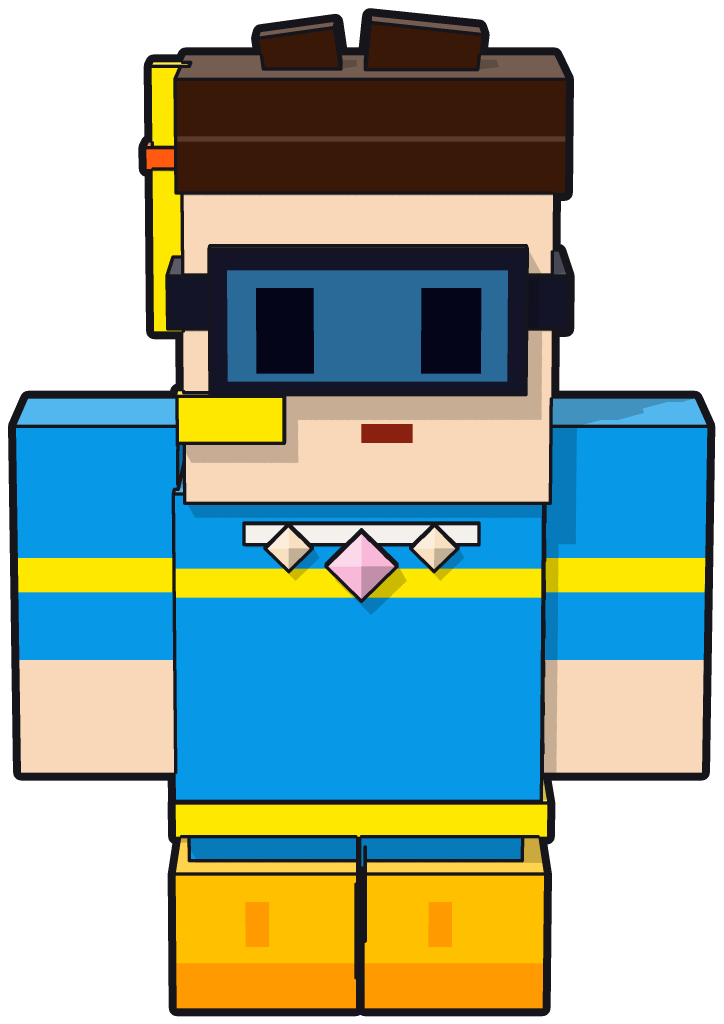
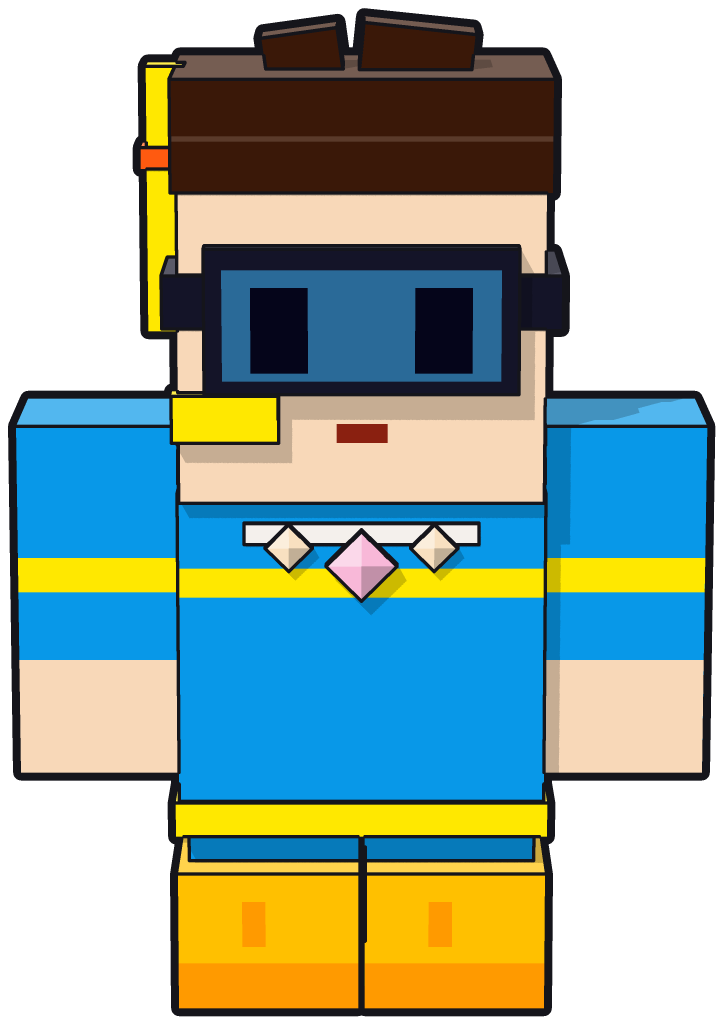
Make Bronze Digger, miner mouse, Flint Sparker and snorkel kid symmetric
These four were traced straight from screenshot pixels, so the left and
right halves came out uneven: arms of different widths, the face off the
body's centre line, eyes and boots at different offsets. Each is now built
around one centre line with mirrored arms, legs, eyes and side details,
keeping the traced heights and colours.

Claude-Session: https://claude.ai/code/session_01ULLBN6QcHc2q67qZSwLzzW

diff --git a/art3d_noweapon/src/c3dn_bronze_digger.py b/art3d_noweapon/src/c3dn_bronze_digger.py
@@ -3,45 +3,50 @@ from lib3d import *
 
 ZOOM = 3
 s = Scene()
-M = lambda x: 1020 - x
+M = lambda x: 1020 - x          # symmetric around the face centre (x = 510)
 BOTH = (lambda x: x, M)
 BRONZE, SKIN = '#C85E14', '#F8C084'
 
-# red crest on a bronze stem
-s.box(465, 180, 547, 265, -30, 30, '#D87A10').f(R(465, 180, 490, 265), '#D8A070')
-s.box(468, 138, 545, 190, -34, 34, '#FF1818').f(R(468, 138, 495, 190), '#FF5050')
 
-# skirt tabs, lower band, boots
-for x0, x1 in ((340, 485), (495, 645)):
-    s.box(x0, 985, x1, 1040, -72, 92, '#A84A14')
-s.box(333, 962, 657, 990, -96, 96, '#7A2A08')
-sk = s.box(335, 865, 655, 965, -94, 94, '#6A3020')
-for x0, x1 in ((340, 400), (470, 525), (590, 650)):
-    sk.f(R(x0, 865, x1, 965), '#E06A10')
+def mbox(x0, y0, x1, y1, z0, z1, col):
+    """Box plus its mirror image on the other side."""
+    return [s.box(min(f(x0), f(x1)), y0, max(f(x0), f(x1)), y1, z0, z1, col) for f in BOTH]
+
+# red crest on a bronze stem
+s.box(470, 180, 550, 265, -30, 30, '#D87A10').f(R(470, 180, 495, 265), '#D8A070')
+s.box(472, 138, 548, 190, -34, 34, '#FF1818').f(R(472, 138, 498, 190), '#FF5050')
+
+# boots, lower band, skirt with orange tabs
+mbox(345, 985, 500, 1040, -72, 92, '#A84A14')
+s.box(338, 962, M(338), 990, -96, 96, '#7A2A08')
+sk = s.box(340, 865, M(340), 965, -94, 94, '#6A3020')
+for x0 in (345, 480):
+    sk.f(R(x0, 865, x0 + 60, 965), '#E06A10')
+sk.f(R(M(405), 865, M(345), 965), '#E06A10')
 
 # tunic with teal edges, shoulder studs, chest seam and ridges, belt
-t = s.box(335, 630, 670, 840, -100, 100, '#C05808').f(R(335, 630, 358, 840), '#108878').f(R(647, 630, 670, 840), '#108878')
-t.f(R(498, 660, 508, 800), '#E07010').f(R(390, 688, 490, 708), '#F08020').f(R(520, 688, 620, 708), '#F08020')
+t = s.box(340, 630, M(340), 840, -100, 100, '#C05808').f(R(340, 630, 363, 840), '#108878').f(R(M(363), 630, M(340), 840), '#108878')
+t.f(R(505, 660, 515, 800), '#E07010').f(R(395, 688, 495, 708), '#F08020').f(R(M(495), 688, M(395), 708), '#F08020')
 for f in BOTH:
-    gem(s, f(388), 660, 35, 98, 110, '#E09020')
-s.box(330, 823, 668, 865, -104, 104, '#6A2A12')
+    gem(s, f(393), 660, 35, 98, 110, '#E09020')
+s.box(335, 823, M(335), 865, -104, 104, '#6A2A12')
 
 # arms: skin, bronze cuff band, bracer, hand
-for x0, x1 in ((195, 335), (668, 810)):
-    s.box(x0, 570, x1, 875, -74, 74, SKIN).f(R(x0, 745, x1, 760), '#D0801C').f(R(x0, 760, x1, 825), '#B85A10')
+for b in mbox(195, 570, 340, 875, -74, 74, SKIN):
+    x0, x1 = b.faces[0].pts[:, 0].min(), b.faces[0].pts[:, 0].max()
+    b.f(R(x0, 745, x1, 760), '#D0801C').f(R(x0, 760, x1, 825), '#B85A10')
 
 # head: hair at the sides, face, helmet with rivets, brim, nose guard
-for f in BOTH:
-    s.box(min(f(315), f(360)), 380, max(f(315), f(360)), 530, -90, 80, '#C85A18')
-head = s.box(350, 375, 670, 630, -110, 110, SKIN)
-s.box(333, 245, 707, 360, -118, 118, BRONZE).f(R(387, 325, 408, 345), '#E8A020').f(R(630, 325, 651, 345), '#E8A020')
-s.box(325, 352, 713, 380, -124, 124, '#A84810')
-s.box(498, 375, 533, 468, 108, 120, '#B04A10')
+mbox(315, 380, 360, 530, -90, 80, '#C85A18')
+head = s.box(350, 375, M(350), 630, -110, 110, SKIN)
+s.box(323, 245, M(323), 360, -118, 118, BRONZE).f(R(382, 325, 403, 345), '#E8A020').f(R(M(403), 325, M(382), 345), '#E8A020')
+s.box(317, 352, M(317), 380, -124, 124, '#A84810')
+s.box(493, 375, 527, 468, 108, 120, '#B04A10')
 
 # face: angry brows, eyes, beard with the mouth
-head.f(P((405, 406), (472, 416), (472, 434), (405, 424)), '#6A1A08').f(P((553, 416), (622, 406), (622, 424), (553, 434)), '#6A1A08')
-for x in (412, 560):
+head.f(P((405, 406), (472, 416), (472, 434), (405, 424)), '#6A1A08').f(P((M(472), 416), (M(405), 406), (M(405), 424), (M(472), 434)), '#6A1A08')
+for x in (412, M(465)):
     head.f(R(x, 428, x + 53, 505), '#05051A').f(R(x + 8, 440, x + 26, 463), '#FFFFFF')
-s.box(383, 547, 637, 630, 106, 130, '#8A3208').f(R(487, 547, 537, 560), '#5A0A08')
+s.box(383, 547, M(383), 630, 106, 130, '#8A3208').f(R(485, 547, 535, 560), '#5A0A08')
 
 render(s, sys.argv[1])

diff --git a/art3d_noweapon/src/c3dn_flint_sparker.py b/art3d_noweapon/src/c3dn_flint_sparker.py
@@ -3,41 +3,44 @@ from lib3d import *
 
 ZOOM = 3
 s = Scene()
+M = lambda x: 826 - x           # symmetric around the face centre (x = 413)
+BOTH = (lambda x: x, M)
 SKIN, HAIR, OR = '#F0B070', '#1A0808', '#E07818'
 
-# spiky hair on top, side lock, hair band
-for x0, y0, x1, a, col in ((250, 130, 325, -6, HAIR), (300, 125, 410, -4, HAIR), (390, 138, 465, 0, '#2A1010'), (465, 120, 560, 8, '#4A2018')):
-    s.cube((x0 + x1) / 2, (y0 + 215) / 2, -20, x1 - x0, 215 - y0, 90, col, rz=a)
-s.box(220, 195, 265, 420, -90, 60, HAIR)
-s.box(260, 210, 605, 320, -112, 112, HAIR).f(R(270, 263, 540, 268), '#3A1A28')
-s.box(235, 305, 605, 335, -114, 114, OR)
-gem(s, 432, 322, 50, 112, 124, '#2A2A48')
-gem(s, 398, 282, 15, 112, 120, '#FFF020')
+# chunky hair tufts on top, a side lock, the hair band
+for cx, w, h, a, col in ((276, 70, 70, -8, HAIR), (346, 72, 80, -4, '#241010'), (412, 64, 72, 2, HAIR), (488, 92, 88, 10, '#4A2018')):
+    s.cube(cx, 215 - h / 2, -30, w, h, 70, col, rz=a)
+s.box(210, 205, 250, 420, -90, 60, HAIR)
+s.box(228, 210, M(228), 320, -112, 112, HAIR).f(R(240, 263, M(240), 268), '#3A1A28')
+s.box(228, 305, M(228), 335, -114, 114, OR)
+gem(s, 413, 322, 50, 112, 124, '#2A2A48')
+gem(s, 379, 282, 15, 112, 120, '#FFF020')
 
 # legs, skirt with a diamond pattern, orange band, tan belt
-for x0, x1 in ((238, 385), (390, 545)):
-    s.box(x0, 940, x1, 985, -70, 84, '#6A2008')
-s.box(230, 900, 555, 945, -92, 92, OR)
-sk = s.box(230, 800, 565, 905, -96, 96, '#B84A08')
-for cx in (275, 335, 395, 455, 522):
+for f in BOTH:
+    s.box(min(f(246), f(408)), 940, max(f(246), f(408)), 985, -70, 84, '#6A2008')
+s.box(243, 900, M(243), 945, -92, 92, OR)
+sk = s.box(238, 800, M(238), 905, -96, 96, '#B84A08')
+for cx in (289, 351, 413, 475, 537):
     sk.f(D(cx, 855, 30), '#8A3008')
-s.box(225, 765, 580, 800, -100, 100, '#F0C878')
+s.box(233, 765, M(233), 800, -100, 100, '#F0C878')
 
 # bare chest under a one-shoulder tunic with patches
-s.box(240, 565, 570, 800, -94, 94, SKIN)
-t = s.prism(P((240, 578), (425, 578), (425, 660), (565, 660), (565, 800), (240, 800)), 90, 100, '#C05A08')
-for r in (R(370, 650, 410, 682), R(478, 672, 522, 708), R(305, 702, 348, 738), R(445, 748, 485, 778)):
+s.box(248, 565, M(248), 800, -94, 94, SKIN)
+t = s.prism(P((248, 578), (433, 578), (433, 660), (M(248), 660), (M(248), 800), (248, 800)), 90, 100, '#C05A08')
+for r in (R(378, 650, 418, 682), R(486, 672, 530, 708), R(313, 702, 356, 738), R(453, 748, 493, 778)):
     t.f(r, '#8A3A08')
 
 # arms with an orange band
-for x0, x1 in ((95, 240), (575, 710)):
+for f in BOTH:
+    x0, x1 = sorted((f(103), f(248)))
     s.box(x0, 520, x1, 825, -72, 72, SKIN).f(R(x0, 620, x1, 648), OR)
 
 # face: brows, eyes, big open smile, scar
-head = s.box(238, 320, 588, 570, -106, 106, SKIN)
-head.f(R(318, 342, 398, 365), '#2A1008').f(P((465, 340), (542, 350), (542, 370), (465, 362)), '#2A1008')
-for x in (330, 470):
+head = s.box(238, 320, M(238), 570, -106, 106, SKIN)
+head.f(R(304, 342, 384, 365), '#2A1008').f(P((M(384), 340), (M(304), 350), (M(304), 370), (M(384), 362)), '#2A1008')
+for x in (316, M(369)):
     head.f(R(x, 368, x + 53, 445), '#05051A').f(R(x + 8, 380, x + 27, 405), '#FFFFFF')
-head.f(R(355, 478, 490, 522), '#7A0000').f(R(370, 475, 478, 502), '#FFFFFF').f(R(507, 468, 550, 488), '#8A4020')
+head.f(R(346, 478, 481, 522), '#7A0000').f(R(361, 475, 469, 502), '#FFFFFF').f(R(493, 468, 536, 488), '#8A4020')
 
 render(s, sys.argv[1])

diff --git a/art3d_noweapon/src/c3dn_miner_mouse.py b/art3d_noweapon/src/c3dn_miner_mouse.py
@@ -3,43 +3,48 @@ from lib3d import *
 
 ZOOM = 3
 s = Scene()
+M = lambda x: 1014 - x          # symmetric around x = 507
+BOTH = (lambda x: x, M)
 FUR, LIGHT, PINK, BROWN = '#AC8A7A', '#C8A89A', '#F8B0C8', '#8A4010'
 
 # ears with pink insides
-for cx, cy, a in ((340, 155, -12), (650, 135, 12)):
-    e = s.cube(cx, cy, -40, 140, 150, 40, '#A88878', rz=a)
-    e.f(RR(cx, cy + 8, 90, 110, a), PINK)
+for f, a in ((lambda x: x, -12), (M, 12)):
+    e = s.cube(f(345), 150, -40, 140, 150, 40, '#A88878', rz=a)
+    e.f(RR(f(345), 158, 90, 110, a), PINK)
 
 # yellow hard hat with a lamp
-s.box(382, 100, 625, 172, -80, 80, '#FFD800')
-s.box(365, 168, 645, 195, -100, 100, '#FFC800')
-s.box(478, 135, 534, 185, 78, 92, '#FFFBE8')
+s.box(385, 100, M(385), 172, -80, 80, '#FFD800')
+s.box(367, 168, M(367), 195, -100, 100, '#FFC800')
+s.box(479, 135, M(479), 185, 78, 92, '#FFFBE8')
 
 # feet and legs
-for x0, x1 in ((318, 470), (488, 660)):
-    s.box(x0, 880, x1, 1000, -70, 110, PINK)
-for x0, x1 in ((320, 475), (495, 655)):
-    s.box(x0, 825, x1, 920, -66, 66, BROWN)
+for f in BOTH:
+    s.box(min(f(338), f(498)), 880, max(f(338), f(498)), 1000, -70, 110, PINK)
+    s.box(min(f(342), f(497)), 825, max(f(342), f(497)), 920, -66, 66, BROWN)
 
 # body with brown overalls: bib, buttons, pocket and a patch
-s.box(310, 565, 660, 830, -96, 96, FUR)
-ov = s.box(375, 565, 620, 820, 94, 104, BROWN).f(R(438, 565, 552, 675), LIGHT)
-ov.f(R(385, 680, 425, 705), '#C8A800').f(R(565, 680, 605, 705), '#C8A800').f(R(450, 725, 538, 778), '#6A2A08').f(R(388, 785, 438, 820), '#5A1A08')
+s.box(332, 565, M(332), 830, -96, 96, FUR)
+ov = s.box(385, 565, M(385), 820, 94, 104, BROWN).f(R(450, 565, M(450), 675), LIGHT)
+ov.f(R(395, 680, 435, 705), '#C8A800').f(R(M(435), 680, M(395), 705), '#C8A800')
+ov.f(R(463, 725, 551, 778), '#6A2A08').f(R(398, 785, 448, 820), '#5A1A08')
 
 # arms with pink paws and white claws
-for x0, x1, claws in ((155, 315, (155, 208, 260)), (665, 835, (685, 745, 803))):
+for f in BOTH:
+    x0, x1 = sorted((f(172), f(332)))
     s.box(x0, 475, x1, 830, -76, 76, FUR).f(R(x0, 720, x1, 830), PINK)
-    for cx in claws:
-        s.box(cx, 725, cx + 40, 835, 70, 96, '#E8E0E0').f(R(cx, 725, cx + 40, 760), '#A88068')
+    for cx in (180, 233, 285):
+        c0, c1 = sorted((f(cx), f(cx + 40)))
+        s.box(c0, 725, c1, 835, 70, 96, '#E8E0E0').f(R(c0, 725, c1, 760), '#A88068')
 
 # head, eyes, snout with a pink nose and teeth, whiskers
-head = s.box(325, 185, 690, 565, -110, 110, FUR).f(R(370, 485, 635, 565), LIGHT)
-for x in (396, 557):
+head = s.box(325, 185, M(325), 565, -110, 110, FUR).f(R(375, 485, M(375), 565), LIGHT)
+for x in (396, M(452)):
     head.f(R(x, 300, x + 56, 375), '#05051A').f(R(x + 9, 308, x + 26, 332), '#FFFFFF')
-s.box(418, 395, 598, 485, 108, 150, LIGHT)
-s.box(470, 405, 535, 465, 148, 160, PINK)
-s.box(467, 520, 527, 565, 112, 126, '#FFFFFF')
-for a, b in (((295, 445), (420, 470)), ((305, 490), (420, 478)), ((600, 470), (725, 445)), ((600, 478), (715, 500))):
-    s.prism(B(a, b, 7), 126, 132, '#3A2A30', line=False)
+s.box(418, 395, M(418), 485, 108, 150, LIGHT)
+s.box(475, 405, M(475), 465, 148, 160, PINK)
+s.box(477, 520, M(477), 565, 112, 126, '#FFFFFF')
+for f in BOTH:
+    for a, b in (((295, 445), (420, 470)), ((305, 490), (420, 478))):
+        s.prism(B((f(a[0]), a[1]), (f(b[0]), b[1]), 7), 126, 132, '#3A2A30', line=False)
 
 render(s, sys.argv[1])

diff --git a/art3d_noweapon/src/c3dn_snorkel_kid.py b/art3d_noweapon/src/c3dn_snorkel_kid.py
@@ -3,41 +3,47 @@ from lib3d import *
 
 ZOOM = 3
 s = Scene()
+M = lambda x: 870 - x           # symmetric around the face centre (x = 435)
+BOTH = (lambda x: x, M)
 BLUE, SKIN, YEL = '#0898E8', '#F8D8B8', '#FFE800'
 
 # hair with two tufts
-s.cube(378, 120, -10, 65, 42, 60, '#3A1808', rz=-8)
+s.cube(385, 120, -10, 65, 42, 60, '#3A1808', rz=-8)
 s.cube(482, 120, -10, 95, 50, 70, '#3A1808', rz=6)
-s.box(275, 130, 600, 225, -110, 110, '#3A1808').f(R(275, 178, 600, 182), '#5A3A2A')
+s.box(275, 130, M(275), 225, -110, 110, '#3A1808').f(R(275, 178, M(275), 182), '#5A3A2A')
 
 # snorkel tube at the side of the head
 s.box(250, 130, 282, 360, -40, -8, YEL)
 s.box(245, 200, 275, 218, -44, -4, '#FF5A10')
 
-# swim shoes and legs
-for x0, x1, sx in ((270, 425, 330), (433, 587, 488)):
+# swim shoes with straps and legs
+for f in BOTH:
+    x0, x1 = sorted((f(277), f(432)))
+    sx = x0 + 55
     s.box(x0, 815, x1, 935, -70, 110, '#FFC000').f(R(x0, 895, x1, 935), '#FF9A00').f(R(sx, 840, sx + 20, 880), '#FF9A00')
-for x0, x1 in ((280, 425), (430, 570)):
+    x0, x1 = sorted((f(285), f(432)))
     s.box(x0, 785, x1, 820, -66, 66, BLUE)
 
 # body with a yellow chest band and waist band, collar with gems
-s.box(270, 485, 585, 760, -92, 92, BLUE).f(R(270, 550, 585, 575), YEL)
-s.box(270, 755, 590, 785, -96, 96, YEL)
-s.box(330, 510, 530, 528, 90, 96, '#F4F0EC')
-for cx in (368, 492):
-    gem(s, cx, 530, 20, 94, 102, '#F8E0C0')
-gem(s, 430, 545, 30, 94, 106, '#F8B8D8')
+s.box(278, 485, M(278), 760, -92, 92, BLUE).f(R(278, 550, M(278), 575), YEL)
+s.box(275, 755, M(275), 785, -96, 96, YEL)
+s.box(335, 510, M(335), 528, 90, 96, '#F4F0EC')
+for f in BOTH:
+    gem(s, f(373), 530, 20, 94, 102, '#F8E0C0')
+gem(s, 435, 545, 30, 94, 106, '#F8B8D8')
 
 # arms: blue sleeves with a yellow band, hands
-for x0, x1 in ((135, 273), (587, 725)):
+for f in BOTH:
+    x0, x1 = sorted((f(140), f(278)))
     s.box(x0, 430, x1, 735, -70, 70, BLUE).f(R(x0, 545, x1, 575), YEL).f(R(x0, 635, x1, 735), SKIN)
 
 # head, dive mask with straps, mouthpiece, mouth
-head = s.box(280, 225, 590, 490, -106, 106, SKIN).f(R(430, 422, 473, 438), '#8A2010')
-for x0, x1 in ((267, 303), (568, 602)):
+head = s.box(280, 225, M(280), 490, -106, 106, SKIN).f(R(414, 422, 457, 438), '#8A2010')
+for f in BOTH:
+    x0, x1 = sorted((f(267), f(303)))
     s.box(x0, 295, x1, 340, -40, 110, '#141428')
-mask = s.box(303, 270, 568, 393, 104, 128, '#141428').f(R(318, 288, 552, 382), '#2A6A98')
-mask.f(R(342, 303, 390, 375), '#05051A').f(R(480, 303, 530, 375), '#05051A')
+mask = s.box(303, 270, M(303), 393, 104, 128, '#141428').f(R(318, 288, M(318), 382), '#2A6A98')
+mask.f(R(342, 303, 390, 375), '#05051A').f(R(M(390), 303, M(342), 375), '#05051A')
 s.box(275, 395, 365, 435, 100, 124, YEL)
 
 render(s, sys.argv[1])
